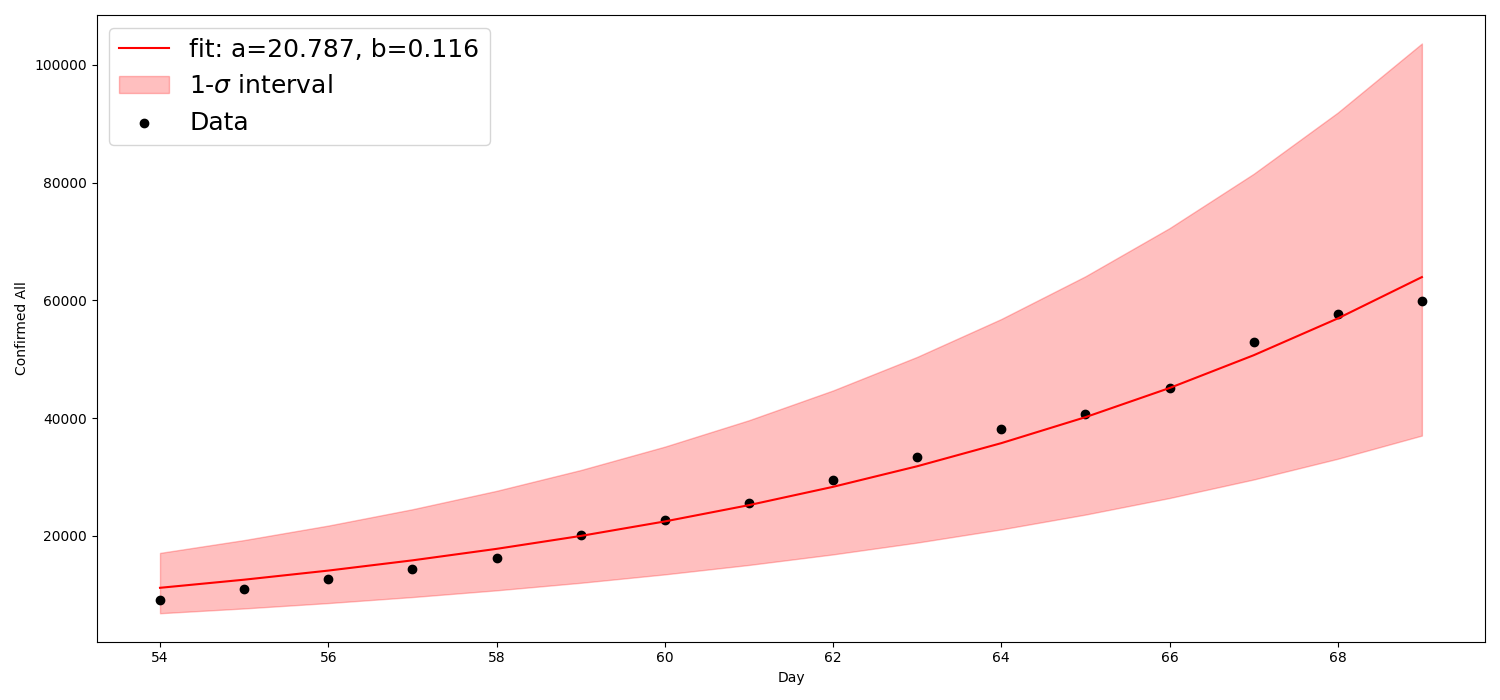
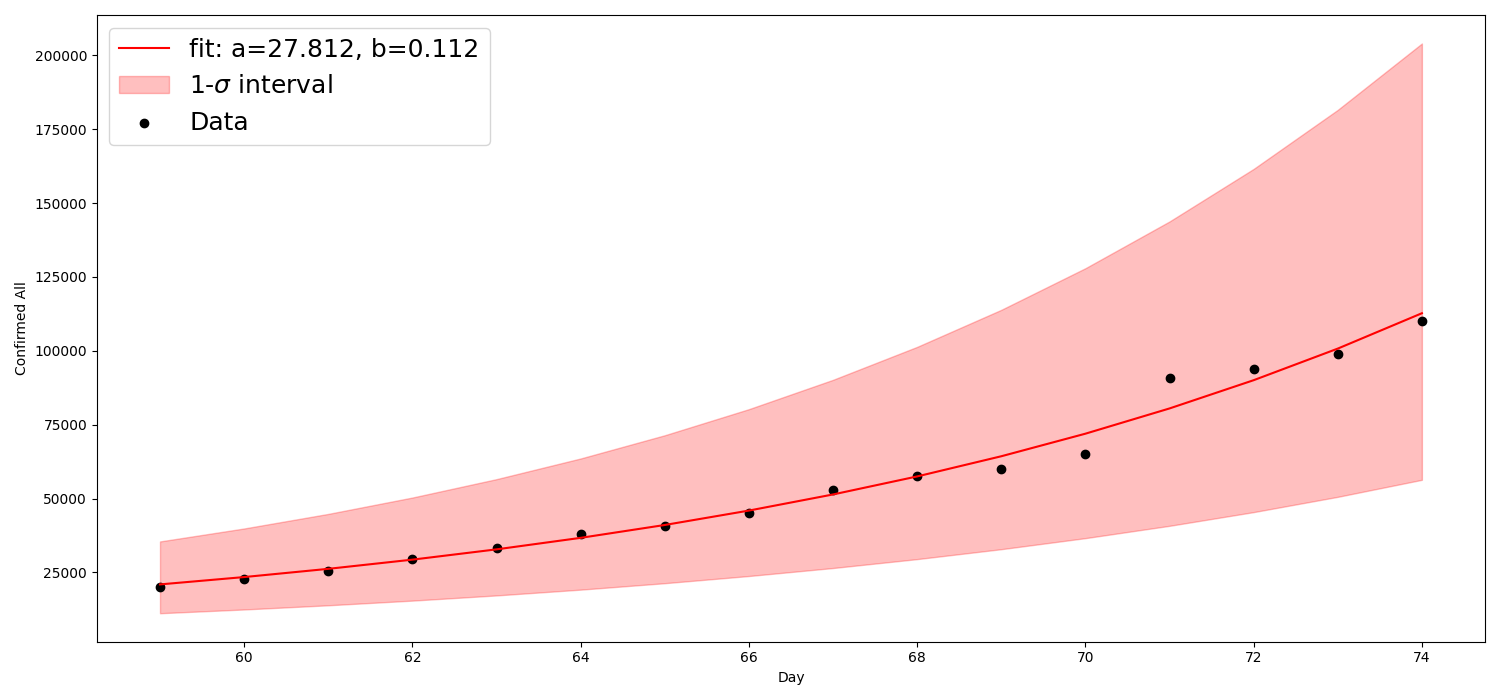
update

diff --git a/eda.py b/eda.py
@@ -41,8 +41,8 @@ def make_pie(df = None, title='', case = ''):
                autopct='%1.1f%%', 
                shadow=False,
                startangle=15,   
-               pctdistance=1.2,
-               labeldistance=1.42)
+               pctdistance=1.1,
+               labeldistance=1.3)
     ax.axis('equal')
     ax.set_title(title)
     ax.legend(frameon=False, bbox_to_anchor=(1.5,0.8))
@@ -132,6 +132,7 @@ def country_view(ax, df : pd.DataFrame(), country:str):
 #options
 kshow= True
 
+kpiedeaths = True
 kpieconfirmed = True
 kcountryview = True
 kdeathrates = True
@@ -168,6 +169,11 @@ if kpieconfirmed:
     plt.figure(figsize=(15,10))
     make_pie(df = cty_gr, title='Confirmed cases', case = 'Confirmed')
     xt.save(fig = plt, fn = xt.name(odir, "pie_confirmed"))
+
+if kpiedeaths:
+    plt.figure(figsize=(15,10))
+    make_pie(df = cty_gr, title='Deaths', case = 'Deaths')
+    xt.save(fig = plt, fn = xt.name(odir, "pie_deaths"))
     
 if kcountryview:
     country = "Germany"

diff --git a/proc.py b/proc.py
@@ -261,8 +261,9 @@ class DataLoader(object):
         #grouped countries
         self.__grouped_cty = self.__latest.copy() 
         self.__grouped_cty.loc[~self.__grouped_cty['Country'].isin(self.__countries), 'Country'] = 'Others'
-        self.__grouped_cty = self.__grouped_cty.groupby(['Country']).agg({'Confirmed': ['sum']})
-        self.__grouped_cty.columns = ['Confirmed']
+        self.__grouped_cty = self.__grouped_cty.groupby(['Country']).agg({'Confirmed': ['sum'],
+                                                                          'Deaths': ['sum']})
+        self.__grouped_cty.columns = ['Confirmed', 'Deaths']
         self.__grouped_cty = self.__grouped_cty.reset_index()
         self.__grouped_cty = self.__grouped_cty.sort_values(['Confirmed'], ascending = False)
         

diff --git a/growth_gradient.py b/growth_gradient.py
@@ -2,7 +2,9 @@ import matplotlib.pyplot as plt
 import numpy as np
 import proc as xp
 import xquery as xq
+import tools as xt
 
+odir = 'images/doubling_time'
 query_raw = xq.Query("Base", "Date > '2020-03-01'")
 query_derived = xq.Query("Recent", "")#RecentDays <=15 ")
 
@@ -38,5 +40,7 @@ plt.legend(loc='upper left', fontsize=18)
 plt.grid(axis='x', linestyle='--')
 plt.grid(axis='y', linestyle='--')
 plt.tight_layout()
+
+xt.save(fig = plt, fn = xt.name(odir, "pie_confirmed_gradients"))
 plt.show()
 plt.close('all')

diff --git a/README.md b/README.md
@@ -5,34 +5,40 @@ https://github.com/CSSEGISandData/COVID-19
 
 ## Overall Statistics
 
-- Last update: 2020-04-02 00:00:00
-- Total confirmed cases: 1013157
-- Total death cases: 52982
-- Total active cases: 760648
-- Total recovered cases: 199527
-- Death rate %: 5.23
+- Last update: 2020-04-07 00:00:00
+- Total confirmed cases: 1426096
+- Total death cases: 81864
+- Total active cases: 1069732
+- Total recovered cases: 274500
+- Death rate %: 5.74
 
  | Country        |   Confirmed |   Deaths |   Recovered |   Active |   Death Rate |   Recovery Rate |
 |:---------------|------------:|---------:|------------:|---------:|-------------:|----------------:|
-| US             |      243453 |     5926 |           0 |   237527 |      2.43415 |        0        |
-| Italy          |      115242 |    13915 |       18278 |    83049 |     12.0746  |       15.8605   |
-| Spain          |      112065 |    10348 |       26743 |    74974 |      9.23393 |       23.8638   |
-| Germany        |       84794 |     1107 |       22440 |    61247 |      1.30552 |       26.4641   |
-| Mainland China |       81589 |     3318 |       76408 |     1863 |      4.06672 |       93.6499   |
-| France         |       59929 |     5398 |       12548 |    41983 |      9.00733 |       20.9381   |
-| Iran           |       50468 |     3160 |       16711 |    30597 |      6.26139 |       33.1121   |
-| UK             |       34173 |     2926 |         192 |    31055 |      8.56232 |        0.561847 |
-| Switzerland    |       18827 |      536 |        4013 |    14278 |      2.84698 |       21.3151   |
-| Turkey         |       18135 |      356 |         415 |    17364 |      1.96305 |        2.28839  |
+| US             |      396223 |    12722 |           0 |   383501 |      3.21082 |        0        |
+| Spain          |      141942 |    14045 |       43208 |    84689 |      9.89489 |       30.4406   |
+| Italy          |      135586 |    17127 |       24392 |    94067 |     12.6318  |       17.9901   |
+| France         |      110065 |    10343 |       19523 |    80199 |      9.39717 |       17.7377   |
+| Germany        |      107663 |     2016 |       36081 |    69566 |      1.87251 |       33.5129   |
+| Mainland China |       81739 |     3331 |       77184 |     1224 |      4.07517 |       94.4274   |
+| Iran           |       62589 |     3872 |       27039 |    31678 |      6.18639 |       43.2009   |
+| UK             |       55949 |     6171 |         325 |    49453 |     11.0297  |        0.580886 |
+| Turkey         |       34109 |      725 |        1582 |    31802 |      2.12554 |        4.63807  |
+| Switzerland    |       22253 |      821 |        8704 |    12728 |      3.68939 |       39.1138   |
 
 
 Rates are reported in percentage.
 
-## Confirmed Cases for Top Countries
+## Pies
 
+### Confirmed Cases for Top Countries
 ![Pie confirmed](images/eda/pie_confirmed.png "Pie confirmed")
 
-## Doubling Times for Confirmed Cases
+### Deaths for Top Countries
+
+![Pie deaths](images/eda/pie_deaths.png "Pie deaths")
+
+
+## Doubling Times for Confirmed Cases using exponential fits
 
 The "doubling time" refers to the time it takes for a population to double in size.
 When the relative growth rate
@@ -49,7 +55,18 @@ the better is in terms of a slowingdown spread. Small values indicate steeply in
 
 We assume that the outbreak in Europe occured around 10-15 February 2020.
 
-### Time window = Last 15 days
+### Time window - Last 15 days (Today)
+|    | Country   |   Doubling Time |   Doubling Time Error |
+|---:|:----------|----------------:|----------------------:|
+|  2 | Italy     |        15.0291  |              0.685628 |
+|  5 | Greece    |        11.2051  |              0.571117 |
+|  0 | Germany   |         9.15512 |              0.535314 |
+|  3 | Spain     |         8.925   |              0.560385 |
+|  4 | France    |         6.17459 |              0.24088  |
+|  6 | US        |         5.60267 |              0.237149 |
+|  1 | UK        |         5.58755 |              0.206167 |
+
+### Time window - Last 15 days (03.04.2020)
 |    | Country   |   Doubling Time |   Doubling Time Error |
 |---:|:----------|----------------:|----------------------:|
 |  2 | Italy     |        10.2942  |              0.538543 |
@@ -62,9 +79,13 @@ We assume that the outbreak in Europe occured around 10-15 February 2020.
 
 Note: China does not expose an exponential growth.
 
-### Germany Today
+### Exponential Growth for Germany (Today)
 ![Germany's doubling time](images/doubling_time/Germany.png "Germany's doubling time")
 Growth for Germany considering the last 15 days.
+
+## Doubling Times for Confirmed Cases using gradients
+
+![Doubling times grad](images/doubling_time/pie_confirmed_gradients.png "Doubling times using gradients")
 
 ## Overview 
 ![Overview stats](images/eda/overview.png?raw=true "Overview")
